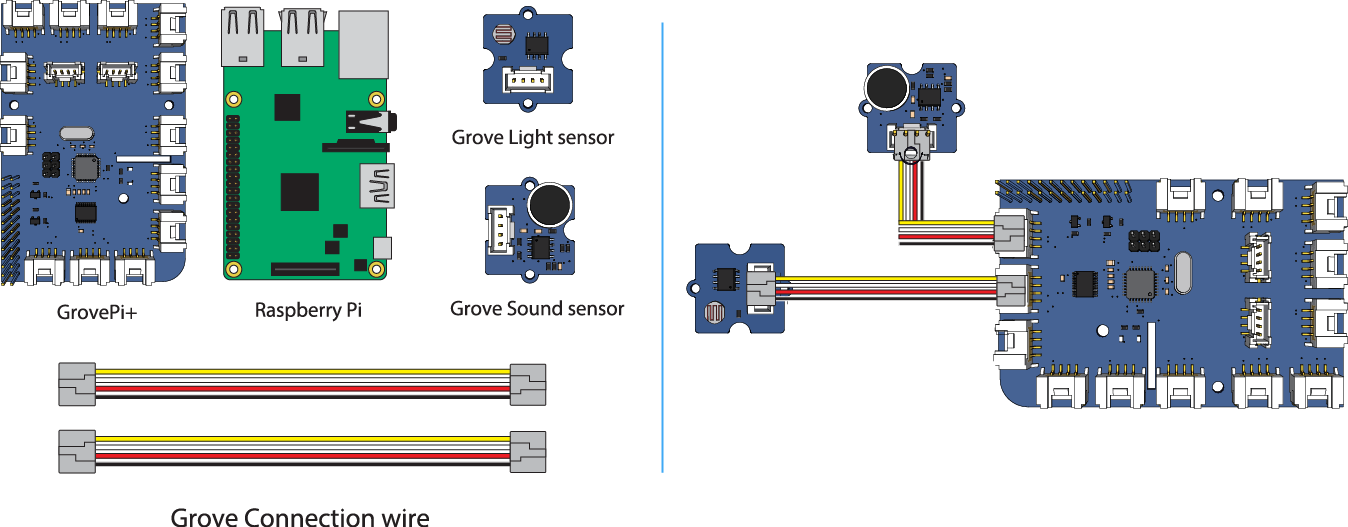
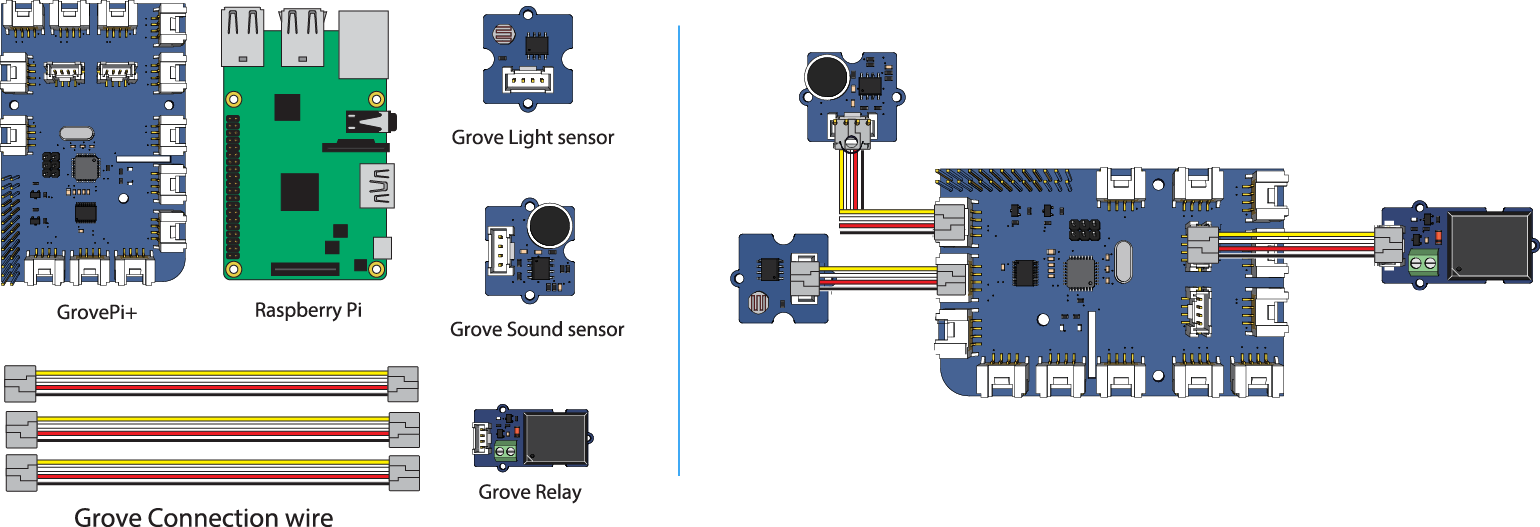
Updates part-2-running-grove-with-azure/scenario-1-dont-catch-cold.md
Auto commit by GitBook Editor

diff --git a/part-2-running-grove-with-azure/scenario-2-soundandlight-and-relay.md b/part-2-running-grove-with-azure/scenario-2-soundandlight-and-relay.md
@@ -7,22 +7,29 @@ And how we do.
 
 #### Hardware setup
 
-Connecting `Grove - Sound Sensor` to GrovePi+'s`A0` and `Grove - Light Sensor` to GrovePi+'s`A1` port. And then power the Raspberry Pi with USB.
+Connecting `Grove - Sound Sensor` to GrovePi+'s`A0` port, `Grove - Light Sensor` to GrovePi+'s`A1` port and `Grove - Relay` to `D5`. And then power the Raspberry Pi with USB.
 
 hardware list:
 
 1. Raspberry Pi 3
 2. GrovePi+
-3. Grove - Sound Sensor and Grove - Light Sensor
-4. 2 x Grove Cable
+3. Grove - Sound Sensor, Grove - Light Sensor and Grove - Relay
+4. 3 x Grove Cable
 
-**Diagram:**![](/assets/sound-light-azure.png)
+**Diagram:**
 
-#### Azure services
+![](/assets/sound-light-azure.png)
+
+#### Services
+
+**Azure sevices**
 
 * Micrsoft Azure IoT Hub: Use to manage and monitor Grove module.
-* Micrsoft Azure Functions: We can use fuction to measures temperature and humidity data, and send an alert email via third-party email service.
-* IFTTT Maker Channel: It's a webhook services, you need to sign up account and generate an unique URL by yourself.
+* Micrsoft Azure Functions: We can use Azure Fuction to post request for IFTTT webhook service, and trigger Grove - Relay module.
+
+**Other services**
+
+* IFTTT Maker Channel: It's a webhook services, you need to sign up account and generate an unique URL by yourself
 
 #### Up and run
 

diff --git a/part-2-running-grove-with-azure/scenario-1-dont-catch-cold.md b/part-2-running-grove-with-azure/scenario-1-dont-catch-cold.md
@@ -17,10 +17,15 @@ hardware list:
 
 **Diagram:**![](/assets/diagram-for-scenario1.png)
 
-#### Azure services
+#### Services
+
+**Azure sevices**
 
 * Micrsoft Azure IoT Hub: Use to manage and monitor Grove module.
 * Micrsoft Azure Functions: We can use fuction to measures temperature and humidity data, and send an alert email via third-party email service.
+
+**Other services**
+
 * Gmail STMP service.
 
 #### Up and run
